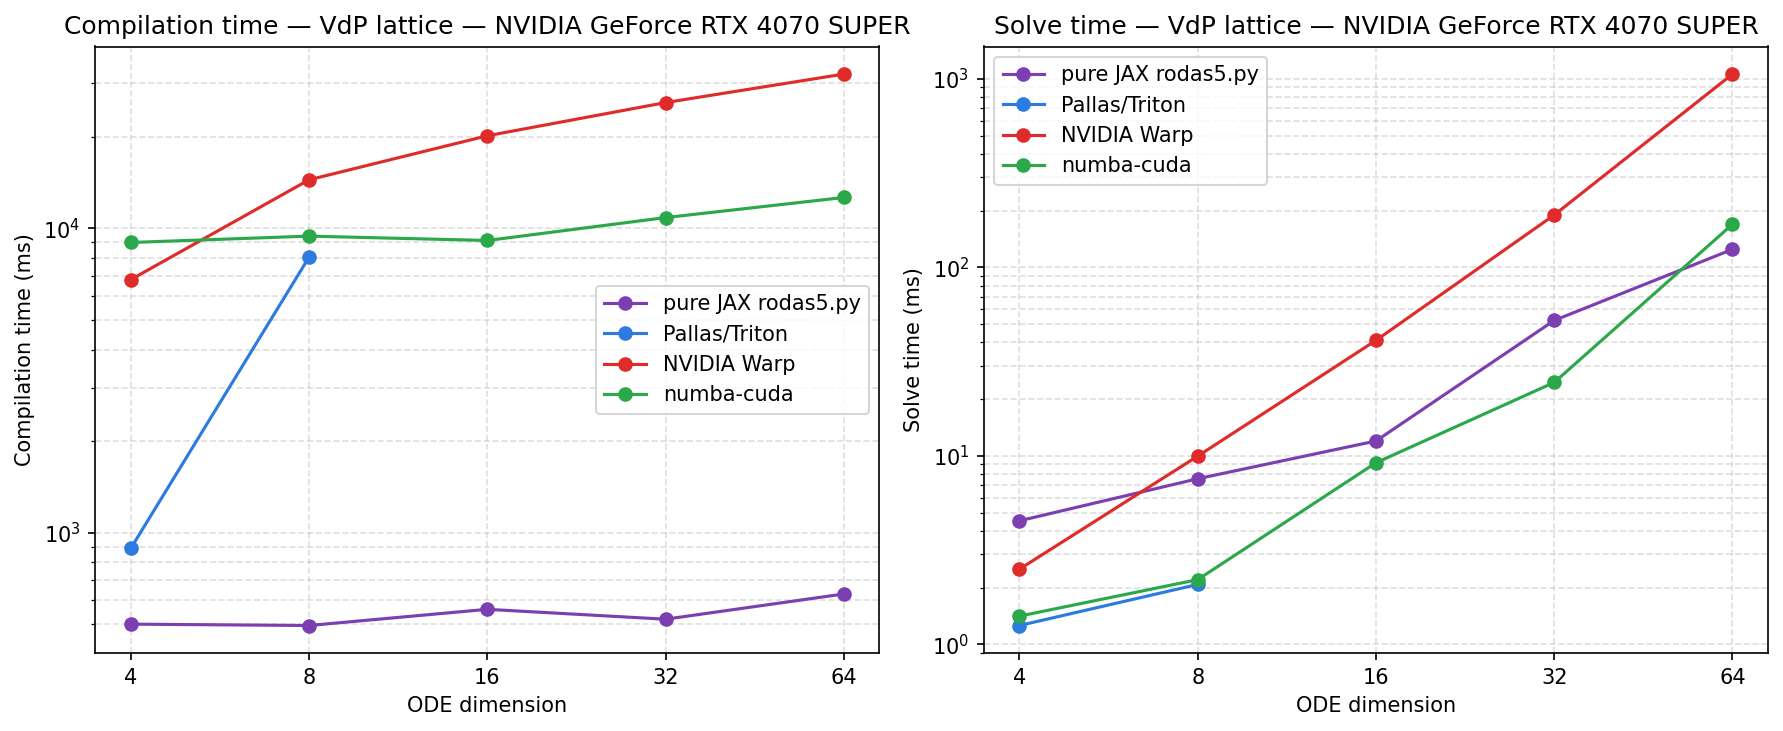
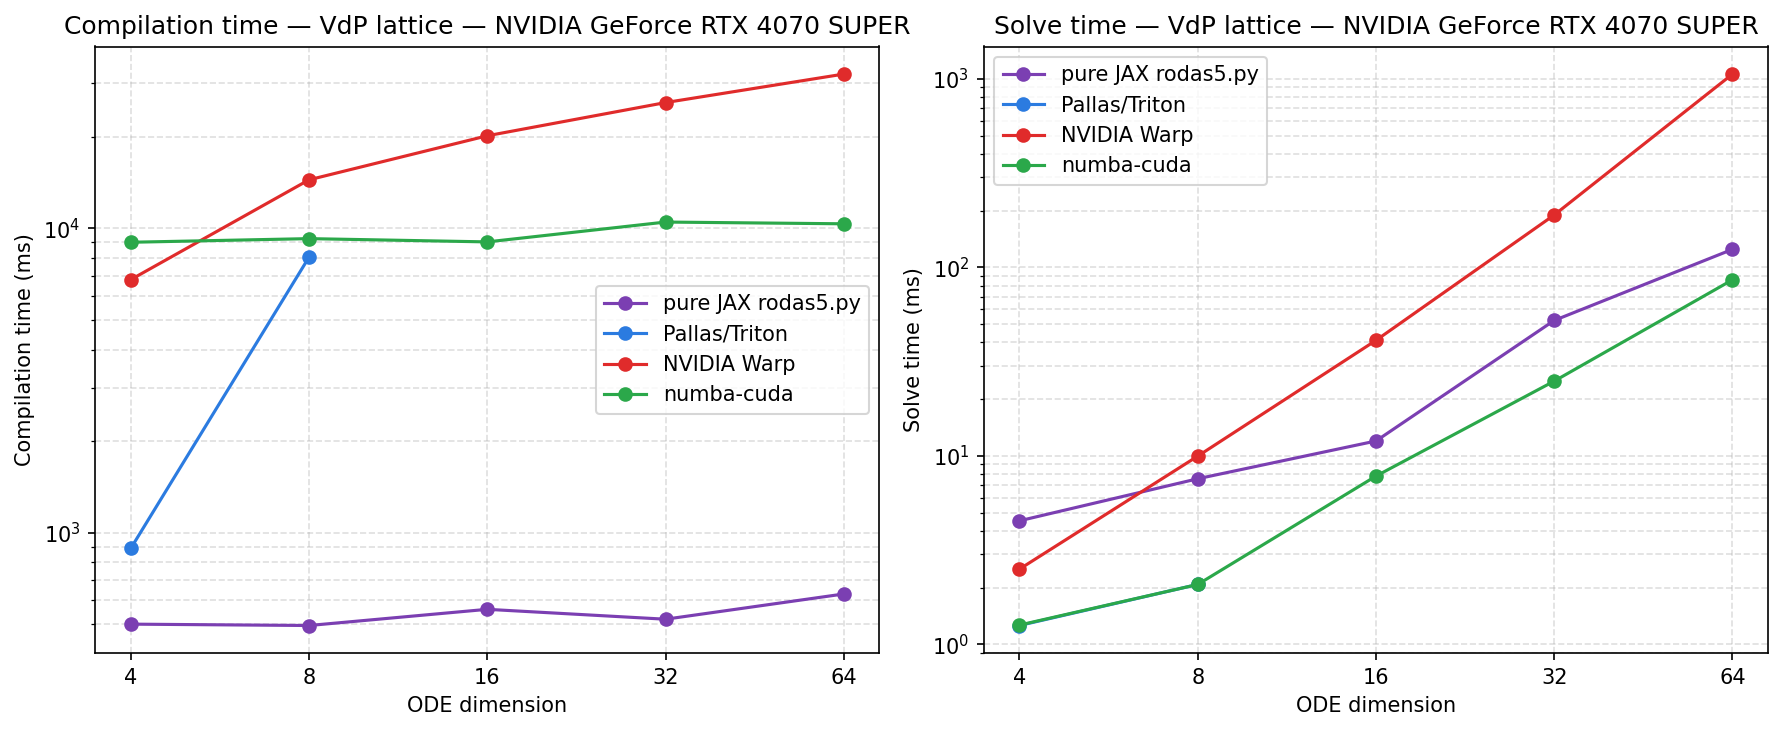
Switch to 32 bit solver precision

diff --git a/solvers/rodas5ckn.py b/solvers/rodas5ckn.py
@@ -29,7 +29,7 @@ def _as_launch_block_dim(block_dim):
 def _make_kernel(ode_fn, jac_fn, n_vars: int):
     lu_solver = LUPivotSolver(
         size=(n_vars, n_vars, 1),
-        precision=np.float64,
+        precision=np.float32,
         execution="Block",
         arrangement=("row_major", "row_major"),
         batches_per_block="suggested",
@@ -39,7 +39,9 @@ def _make_kernel(ode_fn, jac_fn, n_vars: int):
     a_size = int(lu_solver.a_size())
     b_size = int(lu_solver.b_size())
     ipiv_size = int(lu_solver.ipiv_size)
-    print(f"Using {batches_per_block=} and {lu_solver.block_dim=} for LU solver.")
+    print(
+        f"Rodas5ckn kernel: n_vars={n_vars}, batches_per_block={batches_per_block}, block_dim={lu_solver.block_dim}, a_size={a_size}, b_size={b_size}, ipiv_size={ipiv_size}"
+    )
 
     @cuda.jit
     def kernel(
@@ -72,8 +74,8 @@ def _make_kernel(ode_fn, jac_fn, n_vars: int):
         n_save = times.shape[0]
         tf = times[n_save - 1]
 
-        smem_lu = cuda.shared.array(shape=a_size, dtype=np.float64)
-        smem_rhs = cuda.shared.array(shape=b_size, dtype=np.float64)
+        smem_lu = cuda.shared.array(shape=a_size, dtype=np.float32)
+        smem_rhs = cuda.shared.array(shape=b_size, dtype=np.float32)
         smem_ipiv = cuda.shared.array(shape=ipiv_size, dtype=np.int32)
         smem_info = cuda.shared.array(shape=batches_per_block, dtype=np.int32)
 
@@ -141,13 +143,13 @@ def _make_kernel(ode_fn, jac_fn, n_vars: int):
                     for row in range(n_vars):
                         for col in range(n_vars):
                             if row == col:
-                                smem_lu[a_offset + row * n_vars + col] = (
+                                smem_lu[a_offset + row * n_vars + col] = np.float32(
                                     dtgamma_inv - jac[i, row, col]
                                 )
                             else:
-                                smem_lu[a_offset + row * n_vars + col] = -jac[
-                                    i, row, col
-                                ]
+                                smem_lu[a_offset + row * n_vars + col] = np.float32(
+                                    -jac[i, row, col]
+                                )
                 else:
                     for row in range(n_vars):
                         for col in range(n_vars):
@@ -175,7 +177,7 @@ def _make_kernel(ode_fn, jac_fn, n_vars: int):
                 if active:
                     ode_fn(y, smem_t[batch], params, k1, i)
                     for j in range(n_vars):
-                        smem_rhs[b_offset + j] = k1[i, j]
+                        smem_rhs[b_offset + j] = np.float32(k1[i, j])
             cuda.syncthreads()
             lu_solver.solve(smem_lu, smem_ipiv, smem_rhs)
             cuda.syncthreads()
@@ -185,7 +187,7 @@ def _make_kernel(ode_fn, jac_fn, n_vars: int):
                 b_offset = batch * n_vars
                 if i < y0.shape[0]:
                     for j in range(n_vars):
-                        k1[i, j] = smem_rhs[b_offset + j]
+                        k1[i, j] = np.float64(smem_rhs[b_offset + j])
 
             # ---- Stage 2 ----
             if tx < batches_per_block:
@@ -203,7 +205,7 @@ def _make_kernel(ode_fn, jac_fn, n_vars: int):
                         u[i, j] = y[i, j] + ck.A21 * k1[i, j]
                     ode_fn(u, smem_t[batch] + ck.C2 * smem_dt_use[batch], params, k2, i)
                     for j in range(n_vars):
-                        smem_rhs[b_offset + j] = (
+                        smem_rhs[b_offset + j] = np.float32(
                             k2[i, j] + ck.C21 * k1[i, j] * smem_inv_dt[batch]
                         )
             cuda.syncthreads()
@@ -215,7 +217,7 @@ def _make_kernel(ode_fn, jac_fn, n_vars: int):
                 b_offset = batch * n_vars
                 if i < y0.shape[0]:
                     for j in range(n_vars):
-                        k2[i, j] = smem_rhs[b_offset + j]
+                        k2[i, j] = np.float64(smem_rhs[b_offset + j])
 
             # ---- Stage 3 ----
             if tx < batches_per_block:
@@ -233,7 +235,7 @@ def _make_kernel(ode_fn, jac_fn, n_vars: int):
                         u[i, j] = y[i, j] + (ck.A31 * k1[i, j] + ck.A32 * k2[i, j])
                     ode_fn(u, smem_t[batch] + ck.C3 * smem_dt_use[batch], params, k3, i)
                     for j in range(n_vars):
-                        smem_rhs[b_offset + j] = (
+                        smem_rhs[b_offset + j] = np.float32(
                             k3[i, j]
                             + (ck.C31 * k1[i, j] + ck.C32 * k2[i, j])
                             * smem_inv_dt[batch]
@@ -247,7 +249,7 @@ def _make_kernel(ode_fn, jac_fn, n_vars: int):
                 b_offset = batch * n_vars
                 if i < y0.shape[0]:
                     for j in range(n_vars):
-                        k3[i, j] = smem_rhs[b_offset + j]
+                        k3[i, j] = np.float64(smem_rhs[b_offset + j])
 
             # ---- Stage 4 ----
             if tx < batches_per_block:
@@ -267,7 +269,7 @@ def _make_kernel(ode_fn, jac_fn, n_vars: int):
                         )
                     ode_fn(u, smem_t[batch] + ck.C4 * smem_dt_use[batch], params, k4, i)
                     for j in range(n_vars):
-                        smem_rhs[b_offset + j] = (
+                        smem_rhs[b_offset + j] = np.float32(
                             k4[i, j]
                             + (
                                 ck.C41 * k1[i, j]
@@ -285,7 +287,7 @@ def _make_kernel(ode_fn, jac_fn, n_vars: int):
                 b_offset = batch * n_vars
                 if i < y0.shape[0]:
                     for j in range(n_vars):
-                        k4[i, j] = smem_rhs[b_offset + j]
+                        k4[i, j] = np.float64(smem_rhs[b_offset + j])
 
             # ---- Stage 5 ----
             if tx < batches_per_block:
@@ -308,7 +310,7 @@ def _make_kernel(ode_fn, jac_fn, n_vars: int):
                         )
                     ode_fn(u, smem_t[batch] + ck.C5 * smem_dt_use[batch], params, k5, i)
                     for j in range(n_vars):
-                        smem_rhs[b_offset + j] = (
+                        smem_rhs[b_offset + j] = np.float32(
                             k5[i, j]
                             + (
                                 ck.C51 * k1[i, j]
@@ -327,7 +329,7 @@ def _make_kernel(ode_fn, jac_fn, n_vars: int):
                 b_offset = batch * n_vars
                 if i < y0.shape[0]:
                     for j in range(n_vars):
-                        k5[i, j] = smem_rhs[b_offset + j]
+                        k5[i, j] = np.float64(smem_rhs[b_offset + j])
 
             # ---- Stage 6 ----
             if tx < batches_per_block:
@@ -351,7 +353,7 @@ def _make_kernel(ode_fn, jac_fn, n_vars: int):
                         )
                     ode_fn(u, smem_t_end[batch], params, k6, i)
                     for j in range(n_vars):
-                        smem_rhs[b_offset + j] = (
+                        smem_rhs[b_offset + j] = np.float32(
                             k6[i, j]
                             + (
                                 ck.C61 * k1[i, j]
@@ -371,7 +373,7 @@ def _make_kernel(ode_fn, jac_fn, n_vars: int):
                 b_offset = batch * n_vars
                 if i < y0.shape[0]:
                     for j in range(n_vars):
-                        k6[i, j] = smem_rhs[b_offset + j]
+                        k6[i, j] = np.float64(smem_rhs[b_offset + j])
 
             if tx < batches_per_block:
                 batch = tx
@@ -400,7 +402,7 @@ def _make_kernel(ode_fn, jac_fn, n_vars: int):
                 if active:
                     ode_fn(u, smem_t_end[batch], params, k7, i)
                     for j in range(n_vars):
-                        smem_rhs[b_offset + j] = (
+                        smem_rhs[b_offset + j] = np.float32(
                             k7[i, j]
                             + (
                                 ck.C71 * k1[i, j]
@@ -421,7 +423,7 @@ def _make_kernel(ode_fn, jac_fn, n_vars: int):
                 b_offset = batch * n_vars
                 if i < y0.shape[0]:
                     for j in range(n_vars):
-                        k7[i, j] = smem_rhs[b_offset + j]
+                        k7[i, j] = np.float64(smem_rhs[b_offset + j])
 
             if tx < batches_per_block:
                 batch = tx
@@ -450,7 +452,7 @@ def _make_kernel(ode_fn, jac_fn, n_vars: int):
                 if active:
                     ode_fn(u, smem_t_end[batch], params, k8, i)
                     for j in range(n_vars):
-                        smem_rhs[b_offset + j] = (
+                        smem_rhs[b_offset + j] = np.float32(
                             k8[i, j]
                             + (
                                 ck.C81 * k1[i, j]
@@ -472,7 +474,7 @@ def _make_kernel(ode_fn, jac_fn, n_vars: int):
                 b_offset = batch * n_vars
                 if i < y0.shape[0]:
                     for j in range(n_vars):
-                        k8[i, j] = smem_rhs[b_offset + j]
+                        k8[i, j] = np.float64(smem_rhs[b_offset + j])
 
             if tx < batches_per_block:
                 batch = tx
